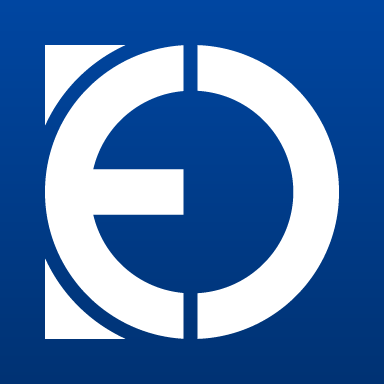
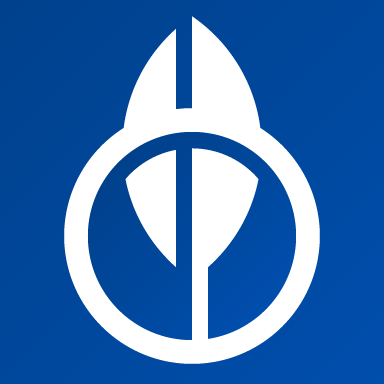
translate pages content
Does not include code, file names, and folder names (all of which were
written in spanish to match the CMS UI)

diff --git a/src/components/MapaArgentina.js b/src/components/MapaArgentina.js
@@ -73,7 +73,7 @@ const MapaArgentina = ({
       const formattedProvince = <span className="mapa-argentina__span" key={i}>{ p }</span>
 
       if (i === 0) return formattedProvince
-      else if (i === arr.length - 1) return <> y {formattedProvince}</>
+      else if (i === arr.length - 1) return <> and {formattedProvince}</>
       else return <>, {formattedProvince}</>
     })
   }
@@ -87,7 +87,7 @@ const MapaArgentina = ({
           { createProvinces() }
         </svg>
         <p className="mapa-argentina__p" style={{ transitionDelay: `${ finalDelay + .3 }s` }}>
-          <span className="mapa-argentina__half mapa-argentina__half--first">Trabajamos en</span>
+          <span className="mapa-argentina__half mapa-argentina__half--first">We work in</span>
           <span className="mapa-argentina__half mapa-argentina__half--last">{ parseProvinceNames() }</span>
         </p>
       </div>
@@ -103,7 +103,7 @@ const provincePaths = {
   "Catamarca": "M86.3 61l.5-1.4.3-.3h0l8.4 1.6 14.9-.2h.4l.1.1h0l.1.2.1.2v.2l.2 1h0v.2h.1l.2.3.2.3.1.2v.1l.1.1v.2l-.3 1.1V65.2h0v.2h0l-.2.2-.6.5h-.2 0-.7l-.5.1h-.8 0l-.1.1-.3.3-.2.1h0l-.1.1-.1.1v.1l-.1.1v1l.1.7.3.5 1 1.5 1 1.2.1.6.2.2.3.3.4 1.2.3.3.8.9.3.4h.1l.1.1H113.1l.2-.1h0v-.2l.6-1.4.2-.2V74h.1l.4-.2.2-.5.1-.1.1-.1.2-.1h.7l.1.1.3.5.3.3.5.3v.3h-.2v.2l-.3.2v.7l-.1.3-.1.4-.3.6-.2.6V78.1l.2.3.2.1h.3l.2.1.3.1.3.1.2.1.4.5.8.6.6.3h0l.2.2h0v.7l-.1.7v1.2l-.1.2-.1.3-.4.6-.8.9-.4.4-.3.4-.3.4V86.6h0l-.2.2-.2.3-.3.2-.4.4-.2.6-.3.4v.1h0v.2h.1l.2.1.3.1h.4l.2.1.9.5h.3l.1.1v.1h0v.4l.4 2 .1.4.1.6v.1l.1.1v.1l.2.2h.2l.1.1v.1l.2.2.1.5v.3l.1.2v.1h.1l.3.2h.3l.1-.2h.4l.5.3h.1v.2l.2.4.1.7.2.5.1.2 1 1.3H123.4l.3-.7h0l.3-.4v-.1l.5-.3.4-.4 1-.7h.2l.2.1.2.2.2.2.2.2.3.1H127.7l.3-.1 1.1 5 .1 2.2v.8l-.2.3-.2.2-.3.3-.1.3-.2.3h0l-.2.2h0l-.1.1v.6h0l.2.1.5.3.3.2v.1h0v.3l.3 2.7v1.2l.5 4.1.5 1.3.8 1.5.1.2v.1l.2.3.3.4-.9.3-.1.4.4 3.3v.3l-.2.2-1.3 1.5-1 1.1-.7.4-2.6.7-2-4.2-.5-1.3-.8-1.6-.8-1.9-.1-.5-.1-.9V116.8l-.2-.3-.3-.7-2.2-2.1-.1-.1-.3-.1-1.5-1.6-.5-.4-2.1-1-.2-.1-.2-.1-.1-.3h0v-.4l.1-.1.1-.2.2-.3v-.1l.1-.1v-.2l-.2-.1-.3-.1h0l-.3-.3-.4-.3-.4-.7-.1-.2-.2-1.1v-.5h-.1v-.2h-.2v-.3l-.5-.3-.4-.6-2.4-1-2.4-.9h-.4l-.3.2h-.1v.1h-.1v.1h-.1v.2h0l-.3.3v.1h-.2l-.2.1-.9.2h-.9l-5.5-.3-.7.2-.2.1-.3.3h-.2l-.1-.1v-.2l-.1-.2h0v-.1l-.2-.1-.1-.2-.6-.9h0l-.2-.5v-.6l-.1-.1v-.4h0v-.1h0l-.2-.1h-.2 0l-.2.1H93h0l-.2.1-.3.2H92l-.1-.1-.2-.2h0l-.1-.2h-.1v-.1h-.2l-.5-.2H89.8l-.1-.1-.2-.1v-.2l-.2-.2-.2-.2-.1-.1-.1-.1h-.2l-.2-.1H88h0-.2l-.2-.2h0v-.1h0V97.8l.2-.7V97h0v-.1l-.2-.3h0V96l.2-.7v-.2h0v-.2h0-.1l-.1-.1h-.1l-.6-.1H86.7l-.1.2h-.1l-.1.2h0-.3 0-.5l-.2-.1H84.8l-1 .1h0l-.3.2-.8.2-3.3-.3h-.2l.1-.5.1-.2.1-.1.3-.2h.1v-.3l-.1-.1-.1-.2v-.4l.4-.3v-.1l.4-.7.1-.4V90.8l.1-.1.2-.2.4-.2.3-.2V90l.7-1.3v-1.1l.1-.3.5-.8.2-.3h.2l.4-.2h.6l.4.3.5.4.4.2h.3l.2-.3v-.2l.2-.3.2-.3.3-.2h.3l.6-.1h.3l.5-.3h.6V84.1l.3-.5V83.1l-.2-.4-2.3-3.3-.4-.6-.4-.5-.2-.6v-2.3l.2-.5.3-.4 1.6-1.3.1-.5v-.6l-1-3.6v-1l-.2-.5-.1-.3-.3-.3-.2-.3v-.7l-.1-.3.2-.2-.2-.3-.4-.6-.1-.2V63l.6-2z",
   "Chaco": "M211.9 82.9h-.3l-.1.1-.1.2-.3.1-.6.2-.1.1-.1.2v.1l.2.2-.1.2-.3.3v.2h-.1v.4h0-.2 0v0l-.1-.2h0-.2v.1l-.1.1v.1l-.1.2V86h-.7l-.2.2-.2.3V87.2l.2.2.3.2.1.3V88.8h0-.2l-.3.2h-.2l-.4.4-.9.6h0l-.1.2-1.3.9h0l-.1.5v.5l.1.2.3.6.2.5.2.5v1.3l-.2.7v1.3l-.3 1.1h-35V72.8l-.2-5.5-.4-1.1h-20.2l3.7-5L163 49v-3.8l2.6 1 .9.2H166.7v.1l.2.2h0l.1.1v.2h.1l.1.1.6.4.4.4h.4l.5.2h.7l.4.4.2.2.1.1.1.1v.2h0l.6 1h1v.1h0l.1.1V50.6h0l.2.2.5.4.2.2.5.6h.8l.4.2h.2l.1.1H176.1l.4.2h.2v.1l.1.1.4.5h0l.2.2h0v.4l.2.1.4.8h.1v.2h-.1v.4l.1.1.3.3h.4l1.8 1.5h.1l.2.1h0l.4.3.4.4v.1l.4.1.8.5h0l.4.3.1.1.2.2h.1l.5.2h.1l.1.1.3.2H185.3l.1.2h0l.2.2.2.4v.2l.3.2.1.3.2.1.2.3h.1l.3.2h.1v.1l.1.2.2.3h0v.2h0v.2h0l.5.2v.1h0v.2h0v.2h.1l.1.1h.3l.2.1h0v.1h0l.1.1v.1h.1v.2h0l-.1.1h0V64.8h0l.1.1V65.1l.1.1.3.3v.1h0v.2h0v.2l.2.2H189.7V66h.1l.2.1h.2v.1h.2l.2.2H190.9l.2.1h0v.2l.1.2h0l.2.1h0l.4.1h.2v.2l.2.3h.1l.4.2.4.3h0l.2.1v.1h0v.5h.1l.3.2.2.1.5.5.8 1.2h.4v1.5h0l.1.2h.5l.3.1.3.2H197.4l.3.1H198.3l.3.2.1.1h0l.1.1V74.1l.1.1.2.2v.2h0V75l.3.3.1.2h.5l.3.1h.5l.2-.1h.2l.1-.1.1-.1.1-.1h0l.1-.1h0l.1-.1H202l.2.2v.1l.4.3h.1l.4.2.4.2.6.2.3.3.3.2.3.4v.2l.2.2.3.3.2.1.1.1.5.2h.1v.1l.2.3.3.3.1.1h.1l.1.1h.4l.1.1.2.3.2.3 1 .6h0l.1.1h0l.1.2h0v.2h0l.1.2.2.1.6.6h0l.1.1.1.3h0l.1.1.3.2h.7v.1h0v.1h0v.2h0l.3.1h0z",
   "Chubut": "M46.8 309.6h81.7l.8.2h0l.7 1.4.4.6.5.4 1 .7h.5l.3.2.3.2.3.1H134.2l.2.1.3.2.2.2h.3l.3-.1.3-.1h.5l.1.2.2.2v.1l-.3.2-.2.2-1 1.4v.1l-.2.5.1.2h1.4l.5.3h.4l.4-.1.3-.1.3-.2h.2l2.3.1h.3l.1-.3h0l.4-.4.1-.2v-.4h0v-.2h0v-.1h0v-.1l.1-.1v-.2l-.1-.3v-.2l-.2-.2-.2-.1H138.7l-.5-.4.4-.2 1.8-.3 1.5-.9 1-.7 1-.5.8-.2.5.1.5.5.2.5.4 1v.3l.2.2.1.3.4.3.3.6.1.7v1.7l.1 2.5-.1.7-.3.7-.2.7.1.6-.6.8-.8.4-2.5.6H142l-.5.3h-.5l-.4-.2-.3-.3-.4-.7-.2-.3h-.2l-.2-.2v-.8l.1-.2.3-1v-.2h.2v-.2l-.3-.2h0l-.3-.1v-.2h-.1l-.5-.3-.1-.2-.1-.3-.1-.2-.3-.2-.5-.2-.7-.2h-1.2l-1 .1-.2.1-.3.2-.3.3h-.5l-.1.1v.1l-.6.8-.3.2h-.2l-.6.2-.6.1-.3.2-.2.3v.3l-.2.3-.4.4-.1.3v.4l.3.2.5.2.4.3.8.2 1.5.8.4.3.5.4.2.2h.4l.3.2h1.1l.2.3h.3v.2l.3.1h.3l1-.4h.1l.2.5v.2l-.3.3-1.5 1-1.4.6-2.5.7-2.2 1.6-.4.5-.2.2-.3.2h-.2l-.1.5v.5l.1.4v.3l-.3.2-.2.1-1 1.1-.4.9-.3.3-.6.6h-.2l-.4 1h0l-.2.3v1.5l.3.5-.1.2V340.6h.2v.4l.1.3.1.3v1.1h.5v.2l-.2.2.1.4v.2l.3.2h.4l-.3.2-.3.3v.8l.2.1v.3l-.1.1-.4.1-.3.1-.2.2v1.3l.1.3h.1l.1.1.1.2v.5h.2V348.9l.1.2H127.3V349.7h-.1V350h-.4v.2l-.1.1h-.1l-.1.2h0v.1h0v.2h-.1l-.1-.1h-.1V351h0l-.1.1h-.1v.2h.2v.2h0v.2h0v.2h.2v-.1h.2V352h0v.1h0H126.2v.2h0l-.2.1h0v-.4H125.8v.1H125.4V352.5h.1v.2h0H125.2v.4h.2v.1h.2v.1l-.2.1h0v-.1h-.2v.2h0-.2v-.2h-.2 0l-.1-.1h-.4v.5h-.2 0-.3l-.5.3-.5.5h-.2l-.6.4-.2.2v.3h-.2v.2l-.2.4v1l-.1.2h-.2v.5h0v.1l-.1.2.2.3.2.1H121.8v.2h.7l.2.3.3-.1.3.3h.2l.1.3h-.1l-.2.3h-.1l-.1.1-.1.1h-.2v.1l-.2.1v.2l.2.2v.2h-.1l-.2-.1-.1.1v.1l.2.3-.5.3h-.5v.3l-.6-.5-.2-.2h-.4l-.2.1-.2.2h-.2v-.4l-.1-.2H119.1V361.2h-.2l-.4.2-.3-.2-.3-.3-.3-.3h-.4l-.8-.3-.7.2-.4-.1-.3.4-.4.4-.3.3-.2-.2H113.2v.2h-.3l-.1.1-.8.3-.4.2-.3.3v.4l.6.2.2.1-.2.4-1.2-.5h-.2v.4l.6.2.2.3v.4h-1.8l-1.4.2-1 .1-.8.4-.4.4-.6.4-.7.8-.3.8-.5.6-.4.6-.4.7-.3.5-.6.5-.3.6-.1.2-.3.2-.2.3-.1.5v.8l.2.2v.2h-.1l-.2.1v.3l-.1.2h0l.1.2v.2l-.2.1h-.2l-.4.3-.2.2-.1.1-.3.7-.3.3-.2.3-.2.3-.2.3.2.5-.3.1-.2.5v.1H48.2h0l.4-.5-.1-.6-.2-.5-.3-.4-.5-.3-.5-.2-.2-.2v-.5l.1-.3v-.2l-.1-.4-.3-.3-.2-.2v-.4l.2-.3v-.2h0v-.8l.3-.4v-.1l.1-.1.1-.1V370.8l-.2-.1v-.1l.1-.4.5-.3.5-.2H49.8l.4-.4.2-.3v-.3l-.3-.5-.1-.3v-.2l1.2-.5.3-.2.1-.2.3-.4.2-.2.3-.4v-.6l-.3-.6-.3-.4-.4-.4-.7-.5-.5-.6v-.2l-.3-.8-.5-1-.4-.5h-.9l-.5-.1-.2-.2-.3-.4-.2-.1-.3-.1h-.3l-.2.1-.3.2h-.5l-.5-.2-.5-.3-.5-.2h-.7l-.1-.3V357.7l-.1-1 .1-.3h.4l.5.1.2.1 1.7.3h.2l.3-.2.1-.2.2-.1h.6l.8.3h.5l1.1-.4.6-.2.4.2 1 .7.5.1h.5l.4-.4.3-.5.1-.6v-.7l-.1-.2v-.4l.3-.5.2-.3.1-.1h.5l.2-.3.1-.3v-.5l-.2-.2-.2-.2v-.3l-.1-.3v-.2l-.2-.2-.3-.2h-.3l-.7-.1-1.8-.4h-2.6l-.6-.1h-.5l-.6.1h-.5l-.4-.4v-.3l.1-.2.3-.1.2-.1V348.5l-.2-.3V347.6l.2-.5v-.6l-.4-.7-.2-.6.3-.3.5-.1.4-.4.2-.3 1-1.5v-.5l-.7-1.2-.1-.2h-.1l-.2-.2-.1-.1v-1h0-.2l-.3.2-.2-.1v-.6l.1-.3.3-.1.5-.2.2-.1.2-.3v-1.4l-.2-.1-.5-.4h0l-.1-.2h0l-.2-.2h0l-.4-.1h-.6v-.4l.2-.3h0v-.4l-.1-.3-.2-.1H44.8h0-.2v-.2h0v-.1l.1-.2v-.7h.1l.1-.1.1-.1v-.2l.1-.5v-.1h.2l.3-.1.5-.2.3-.1.5.1.1-.2V330l.1-.3v-.5l-.3-.1-1.1-.5-1.9-.3-.5-.2-.5-.5-.4-.6-.3-.7.1-.6.3-1V321.3l-.3-.6v-.2l.1-.4V319.9l-.1-.3v-.7l.2-.4.4-.4.6-.3V317.5l-.4-.6v-.2l.2-1-.1-.2-.6-.6-.2-.5.1-.4.3-.3.3-.4.2-.4.1-.4.2-.4.3-.4h.4l.2.4.2.3.3.2h.2v-.2l.2-.2v-.1l.2-.1 1-.2.3-.1.3-.3.1-.3v-1h0l-.3-.3-.1-.2z",
-  "Córdoba": "M166 128.7l-.7 3.7v.3l.1.3 2.8 3 .5.9v.8l-3.2 11.8-.2.5-.6.5-.5.4-.1.2v.2h0l.2.4h0v2.2h0l.1.2.2.2v.2h.1V154.8l-.1.4-.1.2-.1.3v.3l-.1 1.2.3.4.3.2.4.4v.1l.4.2.3.2h0l.1.2.3 1.2.1.2.3.5.9.7.2.1.1.3h0l.2.4v.9h.1v.2h.1l.2.1V164.4h0l-.3.3h0l.1.1h.1l.4.1h0l.1.1h0l.1.1.4.6.2.6h0l.4.4h0v.1l.2.2V167.6l-.3.4v1.8h0l-.3.4-.4.5-.2.1-.2.1h0-.1l-.2.1h0-.2l-.4.4-2.7 4.5-3.8 6.2-5 8.1h-6l-.4.5v2.4l-.1 6.4h-20.9v0V184l-.6-11.2V172.5l.5-.7h0v-.1h.2l.3-.1h.1l.1-.2v-.1h0l-.1-.4v-.4l.3-.6.1-.2V169h0l.4-1v-.1l.1-.2v-.7l.2-.3V166h0l.1-.2.2-.1.1-.2h0v-.2l.2-.6.2-.6.1-.4v-1l-.1-.3v-.3l-.4-.5v-.2h0v-2h-.1 0-.1l-.1-.1H130.5l-1.3.4-1.3.2h-.1l-.1-.1h0v-.2l-.1-.1v-.8h0l-.3-.3v-.3l-.1-.3V157.3h0l-.1-.3h0l-.2-.2-.3-.3-.3-.4-3.5-2.1-.6-.3-.4-.1h-1v-3.9l-.1-5v-2.5l.1-.9.8-2.4.2-.5.2-.7 1-3v-.3l.2-.4.3-1 .1-.6v-.1l.3-.4.2-.4 1-3 2.7-.8.6-.3 1-1.1 1.4-1.5.1-.3v-.2l-.3-3.3.1-.5.8-.3 3.6-.9 2.3-.6 1.4-.3h.5l2.4.6h.1v.9l.3.2.9.5h0l.2.2v.1h.1l.8.2h.1v.1l.2.2h.2v.1h.2l.7.1h.2l1.5-.2h.2l.8.3h.2l.4-.1h.2v.2h0v.5h0v.2H149.7l.2.1h0v.2h0v.3h0l.1.2h13.5l.6.5 2 4.9z",
+  "Cordoba": "M166 128.7l-.7 3.7v.3l.1.3 2.8 3 .5.9v.8l-3.2 11.8-.2.5-.6.5-.5.4-.1.2v.2h0l.2.4h0v2.2h0l.1.2.2.2v.2h.1V154.8l-.1.4-.1.2-.1.3v.3l-.1 1.2.3.4.3.2.4.4v.1l.4.2.3.2h0l.1.2.3 1.2.1.2.3.5.9.7.2.1.1.3h0l.2.4v.9h.1v.2h.1l.2.1V164.4h0l-.3.3h0l.1.1h.1l.4.1h0l.1.1h0l.1.1.4.6.2.6h0l.4.4h0v.1l.2.2V167.6l-.3.4v1.8h0l-.3.4-.4.5-.2.1-.2.1h0-.1l-.2.1h0-.2l-.4.4-2.7 4.5-3.8 6.2-5 8.1h-6l-.4.5v2.4l-.1 6.4h-20.9v0V184l-.6-11.2V172.5l.5-.7h0v-.1h.2l.3-.1h.1l.1-.2v-.1h0l-.1-.4v-.4l.3-.6.1-.2V169h0l.4-1v-.1l.1-.2v-.7l.2-.3V166h0l.1-.2.2-.1.1-.2h0v-.2l.2-.6.2-.6.1-.4v-1l-.1-.3v-.3l-.4-.5v-.2h0v-2h-.1 0-.1l-.1-.1H130.5l-1.3.4-1.3.2h-.1l-.1-.1h0v-.2l-.1-.1v-.8h0l-.3-.3v-.3l-.1-.3V157.3h0l-.1-.3h0l-.2-.2-.3-.3-.3-.4-3.5-2.1-.6-.3-.4-.1h-1v-3.9l-.1-5v-2.5l.1-.9.8-2.4.2-.5.2-.7 1-3v-.3l.2-.4.3-1 .1-.6v-.1l.3-.4.2-.4 1-3 2.7-.8.6-.3 1-1.1 1.4-1.5.1-.3v-.2l-.3-3.3.1-.5.8-.3 3.6-.9 2.3-.6 1.4-.3h.5l2.4.6h.1v.9l.3.2.9.5h0l.2.2v.1h.1l.8.2h.1v.1l.2.2h.2v.1h.2l.7.1h.2l1.5-.2h.2l.8.3h.2l.4-.1h.2v.2h0v.5h0v.2H149.7l.2.1h0v.2h0v.3h0l.1.2h13.5l.6.5 2 4.9z",
   "Corrientes": "M208.8 88.8h0l1.1-.5 3.4-.3 1.3.2h.2l.7-.2h.7l.7.2h0l.4.2h.1l.6.2h0l.5.1h0l1.3.3h.1l2 1 .2.1h0l.4.1 1.2-.2h.4l.3.1h0l.3.3h0l.2.1h.1l.6.2h.1l.3.3.1.1h.5l.5.1h.4l1.3-.8.4-.1h.9l.8.9.4.2h.4l.7-.6.5-.1.3-.1.8.1h0l.5.6.3.4.3.4.4.3.3.1h.5l.2-.4.1-.4.3-.4.2-.2.2-.3v-1l.3-.2h.4l.2-.2.5-.5.2-.2.3-.2h.4l.3.1h0l.8.3h.5l-.3.3-.1.1h0l-.2.5V90.6l1.7 3.7.2.5v.5l.2 1v.6l.1.2.1.2.4.4.1.1.1.3.1.1v.4l.1.2.1.2.2.2.4.3 1 .7h0l-.1.2h-.2l-.5.6-.8.3-.3.2.1.3.1.2.5.2h.2l.2.1.1.2.2.3-.2.7v.2l-.2.1-.2.1h0l-.1-.3-.2-.2-.5-.2h-.5l-.3-.1-.6.2-.2.2v.3l.1.1V104.7h0l-.2.1h0l-.5.1-.3.2-.4.1-.1.2v1l-.3.4-.7.5-1 1.4-.5.3h-.5l-.3.2-.1.2v1.2l-.4.5-.8.5-.2.5V113l-.2.2-.2.2-.9.2-.4.2-.5.3-.4.4-.3.5v.2l-.2.2v.2l.1.2-.1.3-.2.6-.2.2-.2.2-.1.1-.5.2v.1l-.2.1v.2l-.1.2V118.3h-.2l-.1.2v.2l-.1.1v.2l-1 .8-.1.2-.1.1-.5.4-.2.2-.1.5-.4.4v.2l-.1.1-1 1-.2.2h-.8l-.5.1-.5.2-.4.4-.2.4-.1 1.7v.2l-1.2.8-1.1 1.5-.5.4-.3.1h-.5l-.3.1v.4l.1.7v.5l-.3.5-2.4 2.2-.4.4-.1.5v.6l.3.5.2.3.2.6.1.3.1.6h0l-.7-.6-1.5-1.5v-.2l-.6-1v-.3l-.1-.6v-.2l-.2-.3-.6-.4-.7-.7-.3-.4-.2-.3v-.3l-.1-.1-.1-.2-.4-.3-2.4-.7h-1 0l-.3-.3h-.2l-.1-.1h-.5l-1.6.6-.2.1-.3.1-1 .2h0-.5l-.7-.2h-.5l-.3.1-.7.5-.5.4v.1l-.3.2-1 .6-1.1-.5h-.7l-.8.1h-.4v-.1h-.2l-.8.3h-.1l-1 .1-.1-.6v-.3l.2-.7v-.3l.1-.5v-.3l.1-.2.4-.7v-1l-.4-1.2-.4-.7v-.9l.4-.7v-.2l.5-2v-2.8l.1-.5.4-1.7.2-.4.3-.3.3-.3.4-.2 1.2-.4.3-.3.4-.3.3-.3.6-.3.2-.1.2-.4V111h0l.2-.2.2-.5.1-.2v-.4l.2-.5v-.8l.5-1v-.2l.1-.3v-1.3l.3-1.8v-.3l-.3-.6v-.2l.1-.8v-.3l-.1-.5v-.5l.1-.2.1-.3.2-.1.2-.1h.7l.4-.2.4-.2.3-.4.2-.3.2-.7.3-1.1v-1.3l.2-.7v-1.3l-.1-.5-.2-.5-.4-.6V92l-.1-.2V91h.1l1.3-.9h0l.1-.2 1-.6.3-.3.2-.1.4-.1h.2z",
   "Entre Ríos": "M213.7 161.7h0l-.2.6v.7l.1 1.8.2 1 .2 1.5.1.2.4.6v.5l-.2.6v.3l.1.6V170.7l-.5.4h-.6l-1.8-.2-.4.2h0l-.2.2v.1l.3.1V171.8l-.1.1v.3l-.2.7v.3l.2.6v.4h0l-.3.2-.2.3-.4.5-.2.5-.2.7-.1.6v1.4l-.1.3-.1 1.1v.9l.3.5.7 1v.2l.1.3v.7l.2.8v.4l-.7.2-1.1.4h-.6l-.5-.2-1.3-1.2h-.2l-.6-.2-.2-.2-.7-.6-.9-.5-.2-.2-.3-.1H202h0l-.1-.2h0l-.1-.1h0l-.2-.2h0-.1 0-.1 0-.2 0l-.2-.1h0v-.8l-.2-.2h0-.4 0v.2h-1.1l-.7-.3-.5-.5-.5-.4-.7.2-.3.1h-.4l-1.7-1-.1-.1-.5-.8-.2-.2-.2-.1-.6-.3-.3-.1h-.2l-2.1-1.6-1.6-1.7-.6-.3-.4-.2-.3-.3h0l-.2-.3-.2-.3-.1-.1h-.1l-.2-.1-.2-.1-.8-.6-.7-.9v-.1l-.3-1v-.1h-.1l-.2-.2h0l-.2-.3-.7-1.4-.2-.6v-.5l-.2-1.4v-.2l-.2-.3-.4-.7v-.2l-.1-.3v-.3l.4-.9v-.3l.1-.3V160l.3-.8v-2l.4-.8.1-.2v-.3l-.2-.3-.3-.5-.2-.3v-.8l.1-.3.4-.5v-.2l.1-.1v-.5l.2-.4v-.4h0v-.2h0V151l.2-.1h0l.4-.2h1.9l.2-.2.2-.1.4-.4.4-.4.6-1 .3-.3.2-.2.1-.2.2-.1.1-.1h0l.2-.3h.1l.1-.1h0l.3-.1h0l.1-.2.2-.4.5-.6.1-.2h0l.5-1.2v-.2l.6-.5.1-.1.8-1.4.7-1 .5-1 .5-.8.3-.4.7-1 .7-1.3v-.2l.1-.9v-.3l.3-.6v-1.1l.1-.6v-.4l-.3-.7-.1-.2-.1-.7h1.1l.8-.4h.2l.3.2h.1l.9-.2h.6l1.2.5 1-.5.2-.2v-.2l.5-.4.7-.5.3-.1H204.3l.7.2h.5l1-.2h.2l.2-.2 1.6-.6h.7l.1.1.3.2h0l.2.1h.8l2.4.7.4.3.1.2h0l.2.4.1.3.3.4.7.7.6.4.1.3v.2l.2.6v.4l.6 1v.1l1.5 1.5.7.5h0l.2.4v1.7l-.1.3h-.4l-.6.1-.2.2v.4l.5.8.1.6-.2.5-.3.5-.2.6V144.4l-.3.6h0l-.3.2v.1l-.2.3v.7l-.1.2-.2.2-.5.3-.2.2-.2.4.3.4.2.1.3.3.3.4.1.6-.1.7-.7 2.2-.2.2-.3.1-.6.1-.2.2-.2.1-.4.4v.3l.1.3.4.4.1.5v1.2l-.1.6-.3.4v.3l.1.4.8 1 .2.5v.4l-.9 1.2-.3.6-.1.2h0z",
   "Formosa": "M162.8 23.1h.4l.2.1h0v.1h.1V23.7h.2l.3.4.1.2v.2l-.2.3v.2h.1l.3.2H164.7v.7l.2.1-.1.3v.1h.2v.2l.1.1v.2l.4.3v.1l.1.1v.1h.1v.1l.2.1v.1h.1l.1.2.1.1.3.3.1.3.3.5.1.2v.4h0v.1l.2.3.4.5 1.4.8.1.1.3.4.1.2.3.1.1.1.2.2v.5l.1.3h.2l.2.2h.1l.2.3h.1l.2.1h.6l.2.1.6.7h.5l-.1.2v.2l.1.2.1.3h.4l.2.1h.2l.2.2.2.1.1.1h.2l.3.1.8.4v.1l.1.2.2.2.2.1h.1l.3.3h.4l.2.2.2.2.2.1.2.1.1.1v1l.3.3.3.2.2.3.1.2v.2l.1.1.2.3.1.1.4.3.5-.2.4.2.4.4.4.2H182.7l.3.3h1l.2.1h0v.1l.3.5h.5l.2.1.4.3.8.2h.7l.2.3H187.9l1 .2h1.2l.6-.3h.5l4.4 3 .5.5.2.3h.2l.3.1.2.1.2.1h.1l.2.2.1.1.3.2.2.1h.1v.2h.1v.2l.3.1.5.4.1.2.3.5.2.2.4.2.1.1h.2l.1.1h.1l.1.2h.1l.5.3.4.2.3.1.4.3.3.1h.2l.2.1.3.2v.1l.5.1 2.3 1.8.3.1h.8v.1h.2V54.6h.1l2.8.5.2.2.2.1.3.4.8 1h0l.1.2h0l.2.1H212.5l.2-.2.3-.4.2-.1h.3l1 .7.2.2h.1l.9.5h.5l.1.2.1.2h1.2l.2.1.2.2.5.6.2.2.4.2.1.1.4 1 .3.3.3.2h0l.4 1v.1l.6.5.2.1.2.2v1.6l-.2.3-.1.1h-.2l-.1.1v.4H220.2h0v.4h-.1l-.1.2h-.2 0-.5l-.1.2-.3.4v.1l.2.1h.1l.1.1-.1.2-.2.2-.3.2h-.2l-.2.2v.2l.3.5-.2.2h0l-.2.2-.3.1-.3.1v.2l.3.1V69.6l-.1.1-.5.4v.2l.5.2v.1l-.1.3-1.5 1-.4.3-.8.3v.1l-.2.5-.1.2-.1.2v-.1h-.1l-.1-.2h-.2v.2l.2.2h.2l.2.2v.2l-.2.2h-.3l-.2.1v1l-.1.2-.4.7-.1.3v.1l.3.3v.1l-.2.2h0v.3l-.1.2v.5h0l.3.3h.1l.1.3h0v.1l-.2.2h0v.4l.1.1v.1H213.3v-.1h0l-.2.2V81h0l-.2.1H212.7v.4h.1l-.1.2h-.7l-.1.3.1.2.2.2.1.2-.1.2h-.3 0l-.3-.2h0v-.2h0v-.1h-.2 0-.3 0-.2 0l-.3-.2h-.1V82l-.1-.4h0l-.2-.1-.6-.5-.1-.2h0l-.1-.2v-.1h0l-.1-.2h0l-.1-.1-.1-.1-1-.6-.2-.3-.2-.2h0V79h-.2 0-.3 0l-.1-.1-.1-.1-.3-.4-.2-.2h0l-.1-.1-.5-.3h-.2l-.1-.2-.3-.3-.2-.2v-.2l-.4-.4-.2-.2-.4-.2-.5-.2-.4-.2-.5-.2h0l-.4-.4h-.1v-.3h-.2 0-.2 0-.1v.1h-.1v.1l-.1.1-.1.1h-.2l-.2.1-.2.1h-.1l-.1.1h-.2 0l-.4-.2h-.1 0-.2 0-.2l-.1-.1-.2-.3V74.6h0v-.1l-.1-.2-.1-.2h-.1V73.3l-.1-.1h0l-.2-.2h-.3l-.2-.1h0-.3 0-.1l-.3-.2h0-.4 0-.2l-.3-.1-.2-.1h-.1 0-.2 0-.2 0l-.1-.2V71.8l-.1-1h-.2 0-.2l-.8-1.2-.5-.5-.2-.1h-.2l-.1-.1v-.1l-.1-.1V68.4h0v-.2l-.2-.1-.4-.2-.3-.2h-.1v-.1l-.2-.2v-.1h-.1l-.2-.1-.3-.1h-.1V67h-.1l-.1-.2v-.2h-.1l-.1-.1H190.7l-.1-.1-.2-.1h-.1l-.1-.1h0-.2 0l-.1-.1h0-.1 0-.2 0-.2V66l-.1-.1v-.1h0v-.2h0l-.1-.1-.2-.3-.1-.1V64.8h0l-.1-.1-.1-.2h0v-.1h0v-.1h.1V64l-.1-.1h0v-.1h0-.2l-.4-.1h0v-.1l-.1-.1V63.2l-.1-.1-.5-.2h0v-.2h0v-.1h0v-.2l-.1-.2-.1-.2h0l-.1-.1-.3-.2h-.2l-.2-.3-.1-.2-.2-.3-.2-.2v-.1l-.3-.4V60h-.1l-.2-.2h-.5 0-.1l-.3-.2h0l-.2-.1-.4-.2h-.2l-.1-.2-.2-.1-.3-.3h0l-.9-.5-.3-.1-.1-.1-.4-.4-.3-.3h0-.2l-.2-.2-1.7-1.4h0-.1 0-.2 0-.2l-.3-.3V55h0v-.4l-.5-.8v-.4h0l-.1-.1-.2-.1h0l-.4-.6h0l-.1-.1-.2-.1-.5-.2H175l-.4-.2h-.1 0H173.7h0l-.6-.6-.2-.2-.5-.5-.1-.1V50.3l-.1-.1h0V50H172h0-.2 0-.2l-.1-.1h-.1 0-.1 0-.1l-.5-.9V49l-.2-.1v-.1l-.3-.2-.4-.4h-.7l-.5-.2h-.2 0-.2l-.4-.5-.6-.3V47l-.2-.1v-.1h0v-.1l-.1-.1-.2-.1h0l-.1-.1h-.2l-1-.2-2.6-1V23z",

diff --git a/src/pages/contacto/index.js b/src/pages/contacto/index.js
@@ -9,13 +9,13 @@ const RECAPTCHA_KEY = process.env.SITE_RECAPTCHA_KEY;
 
 const Contacto = () => {
   return (
-    <Layout title="Contacto">
+    <Layout title="Contact">
       <main>
         <div className="contacto__background">
           <header className="contacto__intro">
             <div className="container">
-              <h2 className="contacto__h2">Contacto</h2>
-              <p className="contacto__lead lead">Envíenos un mail o contáctenos en nuestras redes sociales</p>
+              <h2 className="contacto__h2">Contact</h2>
+              <p className="contacto__lead lead">Send us a mail or contact us in social media</p>
             </div>
           </header>
         </div>
@@ -29,14 +29,14 @@ const Contacto = () => {
             data-netlify-recaptcha="true"
           >
             <input type="hidden" name="form-name" value="Contact form"/>
-            <label className="contact-form__label contact-form__label--nombre" for="nombre" id="label-nombre">Nombre</label>
+            <label className="contact-form__label contact-form__label--nombre" for="nombre" id="label-nombre">Name</label>
             <input className="contact-form__text contact-form__text--nombre" type="text" id="nombre" name="nombre"/>
-            <label className="contact-form__label contact-form__label--email" for="email" id="label-email">Direccion de e-mail*</label>
+            <label className="contact-form__label contact-form__label--email" for="email" id="label-email">E-mail address*</label>
             <input className="contact-form__text contact-form__text--email" type="email" id="email" name="email" required/>
-            <label className="contact-form__label contact-form__label--mensaje" for="mensaje" id="label-mensaje">Mensaje*</label>
+            <label className="contact-form__label contact-form__label--mensaje" for="mensaje" id="label-mensaje">Message*</label>
             <textarea className="contact-form__textarea" type="text" rows="10" cols="30" id="mensaje" name="mensaje" required></textarea>
             <Recaptcha sitekey={RECAPTCHA_KEY}/>
-            <button type="submit" className="contact-form__submit" id="enviar" name="enviar">Enviar</button>
+            <button type="submit" className="contact-form__submit" id="enviar" name="enviar">Send</button>
           </form>
           <ContactBundle
             classNamePrefix="contacto"

diff --git a/src/templates/trabajos-realizados.js b/src/templates/trabajos-realizados.js
@@ -19,7 +19,7 @@ const TrabajosRealizados = ({ data: { markdownRemark: { frontmatter, fields } } 
   }
 
   return (
-    <Layout title="Trabajos Realizados">
+    <Layout title="Work">
       <TrabajosRealizadosPageTemplate {...frontmatter}/>
     </Layout>
   )
@@ -70,10 +70,7 @@ export const TrabajosRealizadosPageTemplate = ({
         >
           <PreviewCompatibleImage
             className="trabajo__portada"
-            imageInfo={{
-              image: t.portada,
-              alt: ''
-            }}
+            imageInfo={t.portada}
           />
           <div className="trabajo__meta">
             <h3 className="trabajo__titulo trabajo__titulo--portada">{t.title}</h3>
@@ -83,13 +80,11 @@ export const TrabajosRealizadosPageTemplate = ({
         {(selected !== null && textPos === i) && (
         <li className="extracto" key={textPos}>
           <SlideDown className="extracto__container">
-            <PreviewCompatibleImage
-              className="extracto__portada"
-              imageInfo={{
-                image: textContents.portada,
-                alt: ''
-              }}
-            />
+            <div className="extracto__portada">
+              <PreviewCompatibleImage
+                imageInfo={textContents.portada}
+              />
+            </div>
             <div className="extracto__texto">
               <h3 className="extracto__titulo">{textContents.title}</h3>
               {<HTMLContent content={textContents.contenido}/>}

diff --git a/src/components/svgr/shapes.js b/src/components/svgr/shapes.js
@@ -102,9 +102,13 @@ export const Index = props => (
 )
 
 export const SiteLogo = props => (
-  <svg viewBox="0 0 97 97" {...props}>
-    <path d="M26.45 97H0V70.55A53.54 53.54 0 0026.45 97zm0-97A53.54 53.54 0 000 26.45V0h26.45zM97 48.5a48.49 48.49 0 01-46.62 48.46V81.95a33.5 33.5 0 000-66.9V.04A48.49 48.49 0 0197 48.5z" />
-    <path d="M15.85 41h29.77v15H15.85a33.55 33.55 0 0029.77 25.88v15.04a48.51 48.51 0 010-96.84v15.05A33.55 33.55 0 0015.85 41z" />
+  // <svg viewBox="0 0 97 97" {...props}>
+  //   <path d="M26.45 97H0V70.55A53.54 53.54 0 0026.45 97zm0-97A53.54 53.54 0 000 26.45V0h26.45zM97 48.5a48.49 48.49 0 01-46.62 48.46V81.95a33.5 33.5 0 000-66.9V.04A48.49 48.49 0 0197 48.5z" />
+  //   <path d="M15.85 41h29.77v15H15.85a33.55 33.55 0 0029.77 25.88v15.04a48.51 48.51 0 010-96.84v15.05A33.55 33.55 0 0015.85 41z" />
+  // </svg>
+  <svg xmlns="http://www.w3.org/2000/svg" viewBox="0 0 64 87" {...props}>
+    <path d="M49.1 28A40 40 0 0 0 32 0v23a33 33 0 0 0-4 .3V3A39.8 39.8 0 0 0 14.9 28 32 32 0 1 0 49 28ZM36 80.7V62.9a39.8 39.8 0 0 0 12.7-22.1A21.9 21.9 0 0 0 32 33V81a26 26 0 0 1-4-51.7 25.1 25.1 0 0 1 4-.3 26 26 0 0 1 4 51.7Z"/>
+    <path d="M28 33.4V63a39.8 39.8 0 0 1-12.7-22.1 21.9 21.9 0 0 1 4.8-4.2 21.4 21.4 0 0 1 7.9-3.2Z"/>
   </svg>
 )
 

diff --git a/src/components/scss/layout/_header.scss b/src/components/scss/layout/_header.scss
@@ -34,36 +34,38 @@
 
     margin-top: 2rem;
     font-family: "Raleway", serif;
-    font-weight: 100;
+    font-weight: 900;
 
-    &--first{
-      letter-spacing: calc(3.3vw - .36rem);
-    }
-    &--last{
-      letter-spacing: calc(5.6vw - .3rem);
-    }
+    // &--first{
+    //   letter-spacing: calc(3.3vw - .36rem);
+    // }
+    // &--last{
+    //   letter-spacing: calc(5.6vw - .3rem);
+    // }
 
     @include mq(sm) {
       font-size: 5.5rem;
       
-      &--first{
-        letter-spacing: .96rem;
-      }
-      &--last{
-        letter-spacing: 1.9rem;
-      }
+      // &--first{
+      //   letter-spacing: .96rem;
+      // }
+      // &--last{
+      //   letter-spacing: 1.9rem;
+      // }
+
+      margin-bottom: 3rem;
     }
     
     @media (min-width: breakpoint(w-md)) and (min-height: breakpoint(h-lg)) {
       font-size: 5.6rem;
       font-size: calc(12vh - 3rem);
 
-      &--first{
-        letter-spacing: calc(1.25vh + .4rem);
-      }
-      &--last{
-        letter-spacing: 3.2vh;
-      }
+      // &--first{
+      //   letter-spacing: calc(1.25vh + .4rem);
+      // }
+      // &--last{
+      //   letter-spacing: 3.2vh;
+      // }
     }
   }
 

diff --git a/src/templates/index.js b/src/templates/index.js
@@ -35,10 +35,10 @@ export const IndexPageTemplate = ({ images, phrase }) => (
     
     <header className="header white">
       <Title bottomBar/>
-      <h2 className="header__h2"><span className="header__h2--first">BIOLOGIA</span> <br/><span className="header__h2--last">DIGITAL</span></h2>
+      <h2 className="header__h2">Transition is<br/> Innovation</h2>
       <div className="header__bottom-flex">
         <p className="header__intro">{phrase}</p>
-        <MainButton txt="Saber Más →"/>
+        <MainButton txt="Learn more →"/>
       </div>
     </header>
   </div>
@@ -54,8 +54,8 @@ export default ({ data }) => {
       noFooter
       transparentMobile
       blueNav
-      title="Principal"
-      description="Evelina Cejuela y Asociados. Servicios de Consultoria Ambiental"
+      title="Home"
+      description="Sustainable Development. Environmental consulting services"
     >
       <IndexPageTemplate images={slideshow} phrase={phrase}/>
     </Layout>

diff --git a/src/components/Routes.js b/src/components/Routes.js
@@ -2,19 +2,19 @@ import React, { useState } from 'react'
 import { useStaticQuery, graphql, Link } from 'gatsby'
 
 const routeMap = {
-  "Servicios": {
+  "Services": {
     "index": '/servicios',
     "templateKeyMap": "servicio-individual"
   },
-  "Sobre Nosotros": {
+  "About us": {
     "index": '/sobre-nosotros',
-    "Por Qué Elegirnos": "/sobre-nosotros#elegirnos",
-    "Nuestros Objetivos": "/sobre-nosotros#nuestros-objetivos",
-    "Dónde Trabajamos": "/servicios#encontrarnos",
-    "Nuestro Personal": "/personal"
+    "Why H&A": "/sobre-nosotros#elegirnos",
+    "Our goals": "/sobre-nosotros#nuestros-objetivos",
+    "Where we work": "/servicios#encontrarnos",
+    "Our team": "/personal"
   },
-  "Trabajos Realizados": "/trabajos-realizados",
-  "Contacto": "/contacto"
+  "Work": "/trabajos-realizados",
+  "Contact": "/contacto"
 }
 
 export default ({

diff --git a/src/components/PreviewCompatibleImage.js b/src/components/PreviewCompatibleImage.js
@@ -1,5 +1,5 @@
 import React from 'react'
-import { GatsbyImage, getImage, withArtDirection } from "gatsby-plugin-image"
+import { GatsbyImage } from "gatsby-plugin-image"
 
 const PreviewCompatibleImage = ({
   imageInfo,
@@ -10,7 +10,6 @@ const PreviewCompatibleImage = ({
   // sharpType = 'fluid'
 }) => {
   const { alt = '', childImageSharp, image } = imageInfo
-  console.log('INFORMEISHON', imageInfo)
 
   if (!!image) {
     return <div style={style}><GatsbyImage image={image} alt={alt} className={className} key={key}/></div>

diff --git a/src/components/Clientes.js b/src/components/Clientes.js
@@ -9,7 +9,7 @@ const Clientes = ({ lista }) => {
     <article className="clientes" id="clientes">
       <Background className="generic-background generic-background--rotate generic-background--invert objetivos__background"/>
       <div className="container clientes__container">
-        <h3 className="clientes__h3">Nuestros clientes</h3>
+        <h3 className="clientes__h3">Our clients</h3>
         <ul className="clientes__ul">
           {lista.map((c, i) => (
           <li key={i} className="clientes__li">

diff --git a/src/components/Especializamos.js b/src/components/Especializamos.js
@@ -65,7 +65,7 @@ class Especializamos extends Component{
     return (
       <article className="especializamos" id="especializamos">
         <div className="especializamos__container container">
-          <h3 className="especializamos__titulo">Áreas en las que Nos Especializamos</h3>
+          <h3 className="especializamos__titulo">Areas we specialize in</h3>
           <ul className="especializamos__lista">
             { this.state.isDataLoaded && generateList() }
           </ul>

diff --git a/src/components/FollowingImage.js b/src/components/FollowingImage.js
@@ -57,14 +57,10 @@ class FollowingImage extends Component {
 
   render() {
     const generateImgs = () => this.props.imgList.map((img, i) => {
-      // console.log('da image', img)
       const style = {
         transition: `opacity .6s`,
         opacity: this.props.currentImg === img[0] ? 1 : 0
       }
-
-      console.log(this.props.currentImg, img[0])
-      console.log(this.props.currentImg === img[0], style)
       
       return <PreviewCompatibleImage
         imageInfo={{

diff --git a/src/templates/personal.js b/src/templates/personal.js
@@ -18,8 +18,8 @@ const Personal = ({ data:
     }
   }
 }) => (
-  <Layout title="Personal">
-    <PersonalPageTemplate title={title} {...header} personal={lista_de_personal} />
+  <Layout title="Our team">
+    <PersonalPageTemplate title={title} header={header} personal={lista_de_personal} />
   </Layout>
 )
 
@@ -30,6 +30,7 @@ export const PersonalPageTemplate = ({
   header,
   personal
 }) => (
+  console.log(header),
   <>
     <Intro title={title} {...header}/>
     <main>
